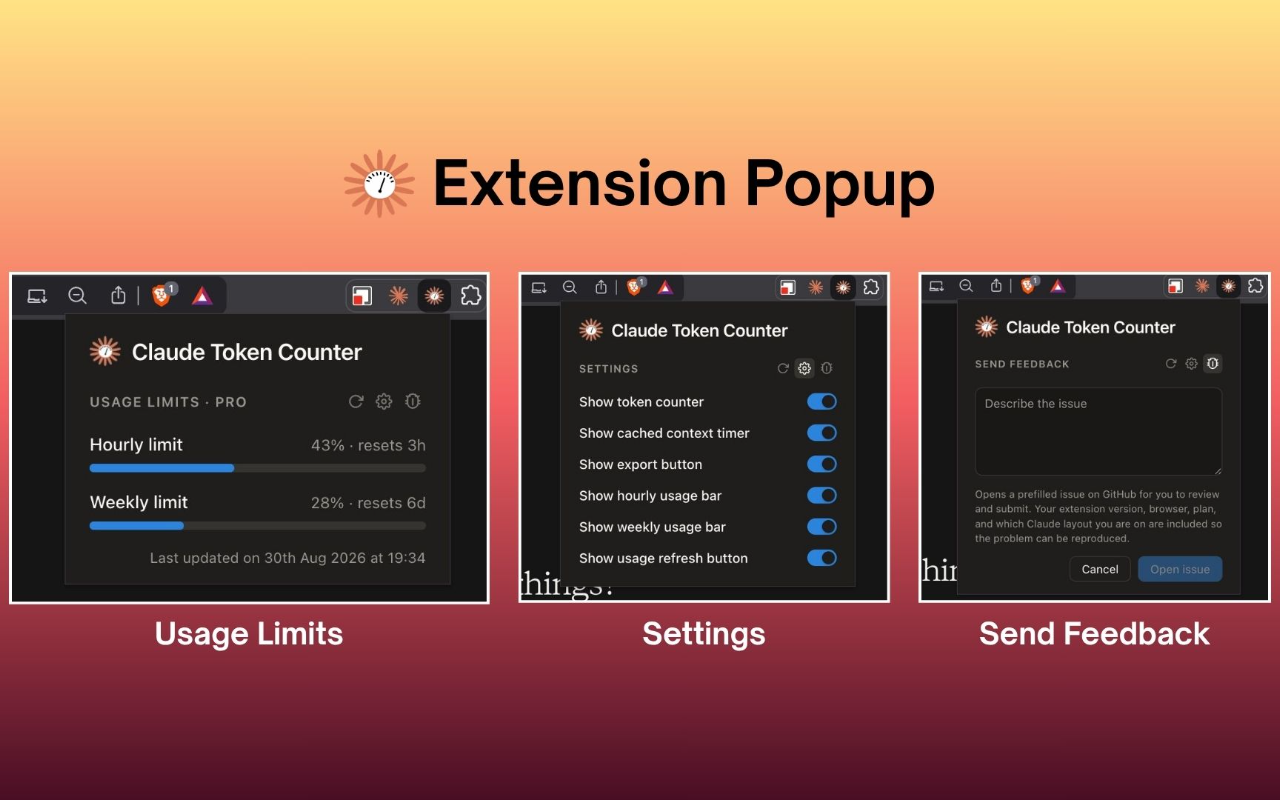
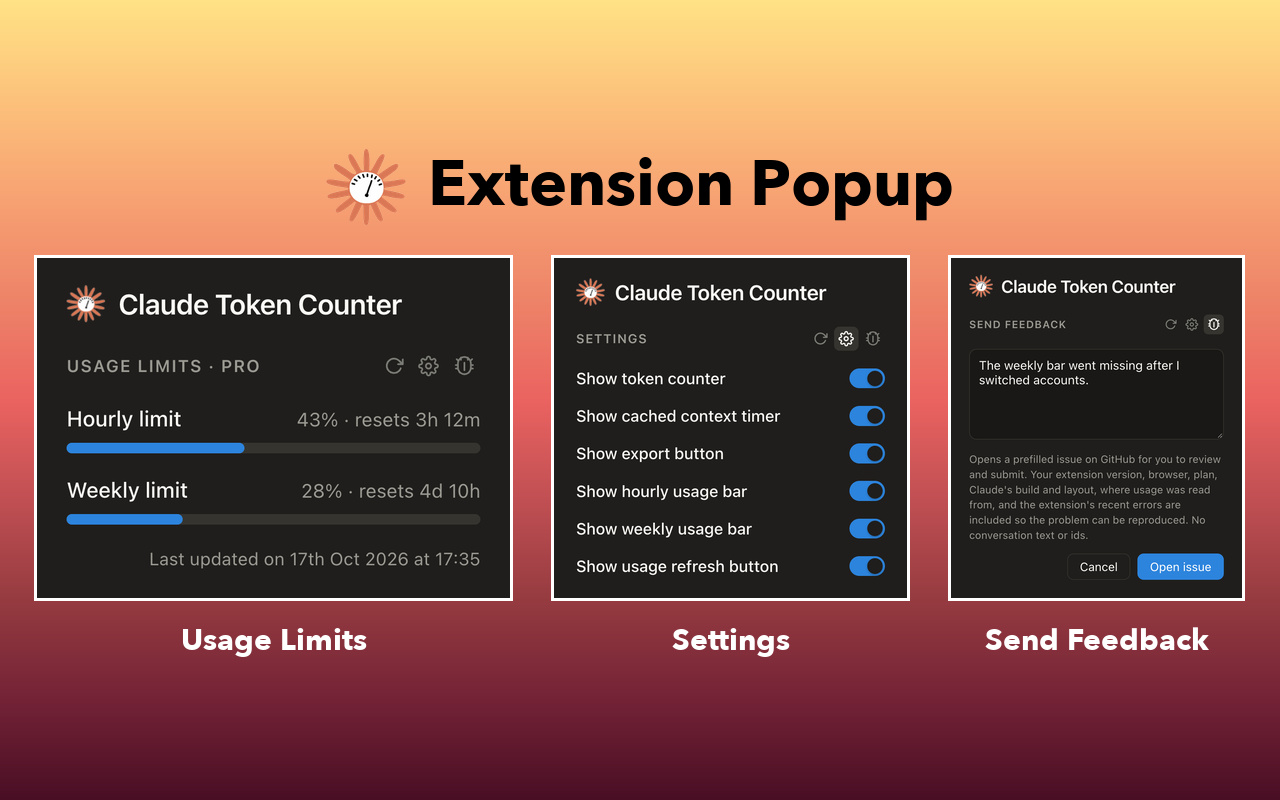
Docs and media: accurate claims, demo video, refreshed screenshots
- README: demo video, screenshots section (dark, light, popup views);
  remove the "more precise than the usage page" claim; Firefox install via
  about:debugging (the release zip is unsigned); export covers text files;
  cache timer described as an estimate; release flow mentions the Web Store
  draft upload; drop the stale "version in two places" line
- PRIVACY: the org id is stored in the usage snapshot
- Cache timer tooltip and popup feedback note now say exactly what is true
- Snapshot key written through the shared constant
- New dark, light and popup screenshots; *.mp4 kept out of git

Changed region(s): [[0.0, 0.3125, 1.0, 0.8125], [0.25, 0.1875, 0.75, 0.2812]]

diff --git a/test/tooltip.test.js b/test/tooltip.test.js
@@ -104,7 +104,7 @@ const touch = { pointerType: 'touch' };
 		t('every tooltip fits Claude\'s 240px box in a few lines (under 130 characters)', Object.values(texts).every((x) => x.length < 130), JSON.stringify(texts));
 		t('token count says approximate and excludes the system prompt', /Approximate/.test(texts.tokens) && /system prompt/.test(texts.tokens));
 		t('token count points to the popover', /Click for details/.test(texts.tokens));
-		t('cache timer says why it matters', /cheaper/.test(texts.cache));
+		t('cache timer says why it matters', /less of your limit/.test(texts.cache) && /estimate/.test(texts.cache));
 		t('hourly names its window', /5-hour/.test(texts.hourly));
 		t('weekly names its window', /7-day/.test(texts.weekly));
 		t('both bars explain the thin line', /thin line/.test(texts.hourly) && /thin line/.test(texts.weekly));

diff --git a/src/popup/popup.html b/src/popup/popup.html
@@ -84,7 +84,7 @@
 
 	<div id="feedback" hidden>
 		<textarea id="feedbackText" rows="5" placeholder="Describe the issue"></textarea>
-		<p class="note" id="feedbackNote">Opens a prefilled issue on GitHub for you to review and submit. Your extension version, browser, plan, and which Claude layout you are on are included so the problem can be reproduced.</p>
+		<p class="note" id="feedbackNote">Opens a prefilled issue on GitHub for you to review and submit. Your extension version, browser, plan, Claude's build and layout, where usage was read from, and the extension's recent errors are included so the problem can be reproduced. No conversation text or ids.</p>
 		<div class="btnRow">
 			<button class="btn" id="feedbackCancel" type="button">Cancel</button>
 			<button class="btn btn--primary" id="feedbackSend" type="button">Open issue</button>

diff --git a/src/content/ui.js b/src/content/ui.js
@@ -717,7 +717,7 @@
 
 		_setupTooltips() {
 			setupTooltip(this.lengthGroup, "Approximate, and lower than Claude's own count: thinking, images, the system prompt and tools are not included.", 'Click for details', (e) => this._toggleContext(e));
-			setupTooltip(this.cachedDisplay, 'Cached context timer. Messages sent while cached are significantly cheaper.');
+			setupTooltip(this.cachedDisplay, 'Cached context timer: an estimate, five minutes from the last reply. Continuing while it runs can use less of your limit.');
 			setupTooltip(this.exportBtn, 'Export as Markdown or plain text. Active branch only.');
 			setupTooltip(this.refreshBtn, 'Refresh usage');
 			setupTooltip(this.sessionGroup, "5-hour session window. The thin line shows how far through it you are.");

diff --git a/src/content/main.js b/src/content/main.js
@@ -206,7 +206,7 @@
 		const plan = await resolvePlanLabel();
 		try {
 			await storage.set({
-				'cc:usageSnapshot': {
+				[CC.SNAPSHOT_KEY]: {
 					updatedAt: Date.now(),
 					orgId: resolveOrgId(),
 					plan,

diff --git a/README.md b/README.md
@@ -15,18 +15,30 @@
   </a>
 </p>
 
-![Claude Token Counter Dark Mode](img/darkmodess.jpg)
+https://github.com/user-attachments/assets/6e5276ac-5881-43a4-92d1-d4ca439bb60e
 
 ## Features
 
 - **Token count**: approximate token count for the current conversation, shown in a quiet chip beside the chat title
-- **Cache timer**: countdown in the same chip showing how long the conversation remains cached (cheaper to continue). A green dot marks a live cache; it appears only while the context is actually cached and disappears when the window closes
-- **Usage bars**: session (5 hour) and weekly (7 day) usage from Claude's native API, with reset countdowns and more precision than the rounded `/usage` page. Bars turn amber past 75% and red past 90%. A thin line marks how far through the window you are, so you can see whether you are burning quota faster than the clock
+- **Cache timer**: countdown in the same chip, an estimate of how long Claude keeps the conversation's context cached: five minutes from the last reply, the length of Anthropic's standard prompt cache (Anthropic does not publish how claude.ai itself caches). A green dot marks a running countdown, the dot is muted while a reply is awaited, and the timer disappears when the window closes
+- **Usage bars**: session (5 hour) and weekly (7 day) usage from Claude's own data, with reset countdowns. Bars turn amber past 75% and red past 90%. A thin line marks how far through the window you are, so you can see whether you are burning quota faster than the clock
 - **Hover help**: every control explains itself in a tooltip drawn to match Claude's own, and the token counter opens a small popover with each model's context-window size
-- **Chat export**: download the current conversation as Markdown or plain text, including any files Claude generated
+- **Chat export**: download the current conversation as Markdown or plain text, including the text files Claude generated (binary ones are listed by name)
 - **Toolbar popup**: click the extension icon from any tab for your plan's session and weekly limits, with settings for what appears on the page and a one-click bug report
 
 The extension requests a single permission, `storage`. It runs on claude.ai and nowhere else, so that is the only site the browser lists it as able to access. The popup asks for its own access to claude.ai only if you press refresh there.
+
+## Screenshots
+
+| Dark | Light |
+| --- | --- |
+| ![Claude Token Counter on claude.ai in dark mode](img/darkmodess.jpg) | ![Claude Token Counter on claude.ai in light mode](img/lightmodess.jpg) |
+
+The toolbar popup: your limits from any tab, a switch for each part, and a prefilled bug report.
+
+| Usage limits | Settings | Send feedback |
+| --- | --- | --- |
+| ![Popup showing the hourly and weekly limits](img/popup-usage.jpeg) | ![Popup settings with a switch for each part](img/popup-settings.jpeg) | ![Popup feedback form](img/popup-report.jpeg) |
 
 ## Installation
 
@@ -36,7 +48,7 @@ The extension requests a single permission, `storage`. It runs on claude.ai and 
 
 **Firefox** (requires Firefox 128 or later)
 1. Install directly from [Firefox Browser Add-ons](https://addons.mozilla.org/en-US/firefox/addon/claude-token-counter).
-2. Or download the latest `claude-token-counter-firefox-*.zip` from the [Releases](../../releases) page and drag it into any Firefox window, then click **Add**.
+2. Or, for testing, download the latest `claude-token-counter-firefox-*.zip` from the [Releases](../../releases) page, open `about:debugging#/runtime/this-firefox`, click **Load Temporary Add-on** and pick the zip. Firefox installs only signed add-ons permanently, and this zip is unsigned, so it is removed when Firefox restarts; use the Add-ons listing above to keep it.
 
 ## How it works
 
@@ -48,7 +60,7 @@ This script runs in the page's own execution context (the "main world"), not the
 
 - `window.fetch`: every request claude.ai makes passes through here first. The bridge inspects the URL and response of each call:
   - POST requests to `/completion` or `/retry_completion` mark the start of a generation, which is used to show a "pending cache" state in the UI.
-  - Responses with an `event-stream` content type are read via a `ReadableStream` reader, line by line, watching for a `data: {"type":"message_limit", ...}` payload. This is the same server-sent event stream Claude's own UI uses to update usage in real time, so the extension reads the exact same unrounded utilization numbers.
+  - Responses with an `event-stream` content type are read via a `ReadableStream` reader, line by line, watching for a `data: {"type":"message_limit", ...}` payload. This is the same server-sent event stream Claude's own UI uses to update usage in real time, so the bars move as soon as a reply lands.
   - On the newer claude.ai layout there is no `/completion` stream: messages are sent with a Connect RPC (`PerformAction`) and everything comes back on a long-lived `StreamTimeline` stream in binary protobuf. The bridge reads a copy of that stream with a small decoder for exactly two things, the conversation's status (whose change from busy to idle is the end of a reply) and the same `message_limit` usage figures.
   - A send that claude.ai refuses for hitting the limit still reports usage in its error body, and that is read too.
   - Responses to `/chat_conversations/{id}?tree=...` are cloned and parsed as JSON, giving the extension the full message tree for the active conversation.
@@ -72,8 +84,8 @@ Runs in the isolated content script world, declared in `manifest.json` against `
 
 Usage numbers come from two sources that the extension reconciles:
 
-- A REST call to `/api/organizations/{orgId}/usage`, fetched on demand through the bridge, which returns rounded `five_hour` and `seven_day` utilization percentages plus their reset timestamps.
-- The live `message_limit` event described above, from the SSE stream on the older layout or the timeline stream on the newer one, which carries the same data as unrounded fractions, so it's more precise than what claude.ai's own `/usage` page displays.
+- A REST call to `/api/organizations/{orgId}/usage`, fetched on demand through the bridge, which returns `five_hour` and `seven_day` utilization percentages plus their reset timestamps.
+- The live `message_limit` event described above, from the SSE stream on the older layout or the timeline stream on the newer one, which carries the same figures as fractions (0.42 for 42%) and arrives with every reply, so the bars update without a page reload. Both sources report whole percentages (seen 2026-10-16), so the figures match claude.ai's own usage page.
 
 The end of a reply is known from the stream (the SSE stream closing, or the timeline's conversation status going idle), and `main.js` also watches the page's own `data-is-streaming` flag as a second signal, so the count still moves if one of them changes. If a part of the extension cannot be painted for a few seconds because claude.ai's layout has no place for it, it floats over the page as a small pill instead of disappearing, and tries its real spot again every half minute.
 
@@ -126,11 +138,9 @@ painted. `test/fixtures/composer.html` covers that by hand: serve the repo
 all three composer variants and to a mock Claude header. It is not part of `npm test`; there is no browser
 in CI.
 
-The version appears in `manifest.json` and `package.json`. CI and the release workflow both refuse to proceed if they disagree.
-
 ## Releasing
 
-Bump `version` in `manifest.json`, `package.json` and `package-lock.json` (the tests fail if they disagree) and push to `main`. If no `v<version>` tag exists yet, the workflow runs the tests and lint, creates the tag and release, builds the Chrome and Firefox artifacts, verifies nothing unwanted was packaged, and publishes them with a `SHA256SUMS.txt`. Releases are cut from `main` only, and pushing a tag by hand no longer does anything (a manual run from the Actions tab retries a failed release). Every action is pinned to a commit SHA. See [SECURITY.md](SECURITY.md) for the dependency policy.
+Bump `version` in `manifest.json`, `package.json` and `package-lock.json` (the tests fail if they disagree) and push to `main`. If no `v<version>` tag exists yet, the workflow runs the tests and lint, creates the tag and release, builds the Chrome and Firefox artifacts, verifies nothing unwanted was packaged, and publishes them with a `SHA256SUMS.txt`. When the Chrome Web Store credentials are set as repository secrets it also uploads the Chrome zip to the store as a draft, which still needs **Submit for review** in the developer dashboard; without them that step is skipped and the zip is uploaded by hand. Releases are cut from `main` only, and pushing a tag by hand no longer does anything (a manual run from the Actions tab retries a failed release). Every action is pinned to a commit SHA. See [SECURITY.md](SECURITY.md) for the dependency policy.
 
 ## Credits
 

diff --git a/PRIVACY.md b/PRIVACY.md
@@ -1,6 +1,6 @@
 # Privacy Policy for Claude Token Counter
 
-**Last updated:** October 15, 2026
+**Last updated:** October 17, 2026
 
 ## Overview
 
@@ -9,7 +9,7 @@ Claude Token Counter is a browser extension that operates entirely within your b
 ## Data Accessed
 
 ### Cookies
-The extension reads the `lastActiveOrg` cookie from `claude.ai` solely to identify your active Claude organization. This is used to query Claude's own API on your behalf for usage data. The cookie value is never stored, logged, or transmitted outside of `claude.ai`.
+The extension reads the `lastActiveOrg` cookie from `claude.ai` solely to identify your active Claude organization. This is used to query Claude's own API on your behalf for usage data. The organisation id it holds is kept in the usage snapshot described below, and is never logged or transmitted outside of `claude.ai`.
 
 ### Network Requests
 The extension makes requests exclusively to the following Claude API endpoints:

diff --git a/CLAUDE.md b/CLAUDE.md
@@ -162,7 +162,11 @@ header shows `18 tokens | ● 2:16` in a quiet pill beside Claude's title; the
 words "Token Counter:" and "Cached Context Timer:" stay in the DOM as
 screen-reader text (`.cc-sr`) and the tooltips explain them, so `textContent`
 (and the tests that read it) still carries them. The dot is the cached signal:
-green while a countdown runs, muted while a reply is awaited. The separator is a
+green while a countdown runs, muted while a reply is awaited. The five minutes is
+Anthropic's standard prompt-cache lifetime, not anything claude.ai publishes about
+itself, and its help centre documents a cheaper-on-the-limit effect only for
+project content (checked 2026-10-17), so the tooltip says "estimate" and "can use
+less", never "significantly cheaper". The separator is a
 drawn element, not a `|` character. A floating pill drops the chip's own
 background. `composer.html` has a mock Claude header to judge it against.
 
